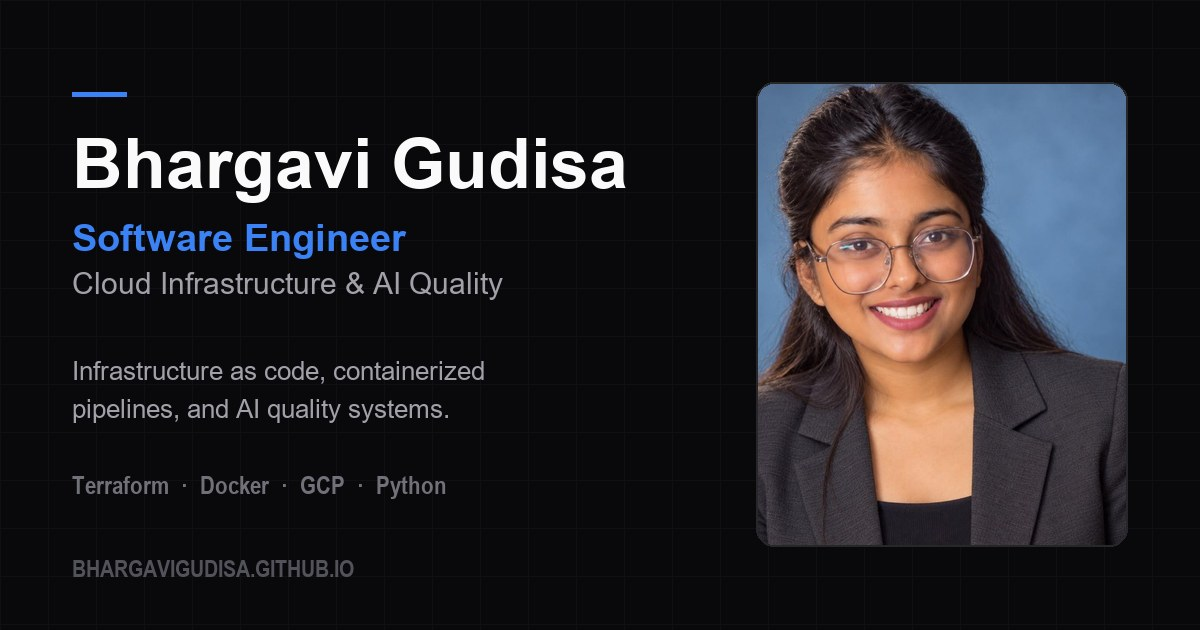
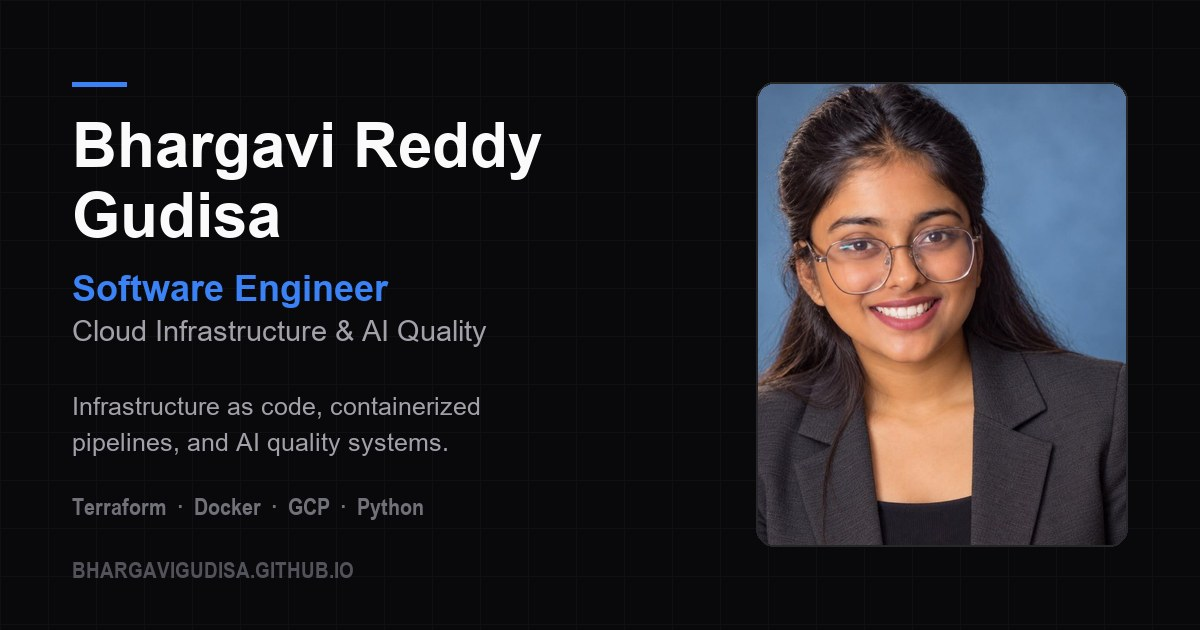
Site: full name, two more projects, and sync the résumé source
- Name is "Bhargavi Reddy Gudisa" throughout — hero, title, OG tags, JSON-LD
  — and the OG card is regenerated to match.
- Adds project cards 08 and 09 for telco-customer-churn-analysis and
  sales-revenue-performance. Both repos existed and were linked from nowhere,
  so the portfolio showed none of that work.
- Résumé source: drops the B.Tech entry and sets location back to USA, per
  Bhargavi. The FAU entries keep "Boca Raton, FL" since that is the campus,
  not a personal location.

The shipped PDF already matches on education and location; it still carries
the short name, so it needs one recompile to agree with everything else.

diff --git a/index.html b/index.html
@@ -3,12 +3,12 @@
 <head>
 <meta charset="UTF-8">
 <meta name="viewport" content="width=device-width,initial-scale=1.0,viewport-fit=cover">
-<meta name="description" content="Bhargavi Gudisa — Software Engineer building cloud infrastructure with Terraform, Docker and GCP, plus AI quality evaluation systems. 5 years across the US and India.">
-<meta name="author" content="Bhargavi Gudisa">
+<meta name="description" content="Bhargavi Reddy Gudisa — Software Engineer building cloud infrastructure with Terraform, Docker and GCP, plus AI quality evaluation systems. 5 years across the US and India.">
+<meta name="author" content="Bhargavi Reddy Gudisa">
 <meta name="robots" content="index,follow">
 <meta name="theme-color" content="#FAFAFA" media="(prefers-color-scheme: light)">
 <meta name="theme-color" content="#09090B" media="(prefers-color-scheme: dark)">
-<title>Bhargavi Gudisa — Software Engineer, Cloud Infrastructure &amp; AI Quality</title>
+<title>Bhargavi Reddy Gudisa — Software Engineer, Cloud Infrastructure &amp; AI Quality</title>
 <link rel="canonical" href="https://bhargavigudisa.github.io/">
 
 <!-- Icons -->
@@ -17,18 +17,18 @@
 
 <!-- Link preview (LinkedIn, Slack, iMessage, email) -->
 <meta property="og:type" content="profile">
-<meta property="og:site_name" content="Bhargavi Gudisa">
-<meta property="og:title" content="Bhargavi Gudisa — Software Engineer, Cloud Infrastructure &amp; AI Quality">
+<meta property="og:site_name" content="Bhargavi Reddy Gudisa">
+<meta property="og:title" content="Bhargavi Reddy Gudisa — Software Engineer, Cloud Infrastructure &amp; AI Quality">
 <meta property="og:description" content="Infrastructure as code, containerized pipelines, and AI quality systems. Terraform, Docker, GCP and Python across 5 years in the US and India.">
 <meta property="og:url" content="https://bhargavigudisa.github.io/">
 <meta property="og:image" content="https://bhargavigudisa.github.io/og-image.jpg">
 <meta property="og:image:width" content="1200">
 <meta property="og:image:height" content="630">
-<meta property="og:image:alt" content="Bhargavi Gudisa — Software Engineer, Cloud Infrastructure and AI Quality">
+<meta property="og:image:alt" content="Bhargavi Reddy Gudisa — Software Engineer, Cloud Infrastructure and AI Quality">
 <meta property="profile:first_name" content="Bhargavi">
 <meta property="profile:last_name" content="Gudisa">
 <meta name="twitter:card" content="summary_large_image">
-<meta name="twitter:title" content="Bhargavi Gudisa — Software Engineer, Cloud Infrastructure &amp; AI Quality">
+<meta name="twitter:title" content="Bhargavi Reddy Gudisa — Software Engineer, Cloud Infrastructure &amp; AI Quality">
 <meta name="twitter:description" content="Infrastructure as code, containerized pipelines, and AI quality systems. Terraform, Docker, GCP and Python.">
 <meta name="twitter:image" content="https://bhargavigudisa.github.io/og-image.jpg">
 
@@ -740,7 +740,9 @@ document.documentElement.classList.add('js');
 {
   "@context": "https://schema.org",
   "@type": "Person",
-  "name": "Bhargavi Gudisa",
+  "name": "Bhargavi Reddy Gudisa",
+  "givenName": "Bhargavi",
+  "familyName": "Gudisa",
   "url": "https://bhargavigudisa.github.io/",
   "image": "https://bhargavigudisa.github.io/og-image.jpg",
   "jobTitle": "Software Engineer",
@@ -805,7 +807,7 @@ document.documentElement.classList.add('js');
 <section id="hero"><div class="c"><div class="hero-g">
   <div>
     <div class="hero-status"><span class="dot"></span>Open to Software &amp; Cloud Engineering roles</div>
-    <h1 class="hero-name" id="hero-name">Bhargavi<br>Gudisa</h1>
+    <h1 class="hero-name" id="hero-name">Bhargavi Reddy<br>Gudisa</h1>
     <div class="hero-role"><span>Software Engineer — Cloud Infrastructure &amp; AI Quality</span></div>
     <p class="hero-desc">
       Building <strong>scalable cloud infrastructure</strong> and AI quality systems. 5 years working across GCP, Azure, and hybrid environments with Terraform, Docker, and Python.
@@ -826,7 +828,7 @@ document.documentElement.classList.add('js');
         <source type="image/webp"
                 srcset="./profile-sm.webp 340w, ./profile.webp 680w"
                 sizes="(max-width: 860px) 60vw, 340px">
-        <img src="./profile.jpg" alt="Bhargavi Gudisa" width="680" height="850"
+        <img src="./profile.jpg" alt="Bhargavi Reddy Gudisa" width="680" height="850"
              loading="eager" fetchpriority="high" decoding="async">
       </picture>
     </div>
@@ -1533,6 +1535,90 @@ ASPECTS = {
         </div>
       </div>
     </div>
+
+    <div class="proj-item reveal">
+      <div class="proj-num">08/</div>
+      <div class="proj-body">
+        <div class="proj-top">
+          <h3 class="proj-title">Telco Customer Churn Analysis</h3>
+          <div class="proj-client">Personal &middot; Public Dataset</div>
+        </div>
+        <p class="proj-desc">7,000+ telecom customer records cleaned and segmented to answer the three questions a retention team actually asks: how much recurring revenue is at risk, which segments leave, and which interventions would pay for themselves.</p>
+        <div class="proj-tags">
+          <span class="tag">Python</span><span class="tag">pandas</span>
+          <span class="tag">SQL</span><span class="tag">Jupyter</span>
+        </div>
+        <div class="proj-links">
+          <a class="proj-link" href="https://github.com/BhargaviGudisa/telco-customer-churn-analysis" target="_blank" rel="noopener">Source &#8599;</a>
+        </div>
+        <button class="proj-toggle" aria-expanded="false" aria-controls="cs8">
+          <span class="pt-label">Read case study</span><span class="pt-ico">+</span>
+        </button>
+        <div class="proj-panel" id="cs8" hidden>
+          <div class="cs">
+            <div class="cs-block">
+              <div class="cs-h">Problem</div>
+              <p class="cs-p">A churn rate is a number, not a decision. Knowing that 26% of customers leave tells a retention team nothing about <strong>who</strong> to call first, and acquiring a replacement customer costs far more than keeping the one you have. The question worth answering is not how much churn there is but which segments it concentrates in.</p>
+            </div>
+            <div class="cs-block">
+              <div class="cs-h">Approach</div>
+              <ul class="cs-ul">
+                <li>Cleaned and validated the raw dataset first &mdash; 7,043 rows down to 7,032 after resolving blank charge fields that would otherwise have been silently coerced to zero.</li>
+                <li>Segmented churn by <strong>contract type, tenure, service mix and support level</strong> rather than reporting one aggregate, because the aggregate hides the only actionable finding.</li>
+                <li>Quantified revenue at risk per segment, so the recommendations are ranked by money rather than by churn percentage.</li>
+                <li>Specified a dashboard layout for ongoing monitoring, so the analysis does not expire the moment the notebook is closed.</li>
+              </ul>
+            </div>
+            <div class="cs-block">
+              <div class="cs-h">Outcome</div>
+              <p class="cs-p">Churn concentrates sharply in month-to-month contracts and short-tenure customers, which turns a vague retention budget into a specific target list. The repository carries the cleaning steps, the SQL and Python analysis, and the dashboard specification, so the method is reusable rather than a one-off notebook.</p>
+            </div>
+          </div>
+        </div>
+      </div>
+    </div>
+
+    <div class="proj-item reveal">
+      <div class="proj-num">09/</div>
+      <div class="proj-body">
+        <div class="proj-top">
+          <h3 class="proj-title">Sales &amp; Revenue Performance</h3>
+          <div class="proj-client">Personal &middot; Retail Dataset</div>
+        </div>
+        <p class="proj-desc">Multi-year retail transaction data cleaned, modelled and analysed into KPIs, profitability drivers and regional performance &mdash; the full path from raw transactional rows to a dashboard a manager would actually open.</p>
+        <div class="proj-tags">
+          <span class="tag">Python</span><span class="tag">pandas</span>
+          <span class="tag">SQL</span><span class="tag">Power BI</span>
+        </div>
+        <div class="proj-links">
+          <a class="proj-link" href="https://github.com/BhargaviGudisa/sales-revenue-performance" target="_blank" rel="noopener">Source &#8599;</a>
+        </div>
+        <button class="proj-toggle" aria-expanded="false" aria-controls="cs9">
+          <span class="pt-label">Read case study</span><span class="pt-ico">+</span>
+        </button>
+        <div class="proj-panel" id="cs9" hidden>
+          <div class="cs">
+            <div class="cs-block">
+              <div class="cs-h">Problem</div>
+              <p class="cs-p">Retail organisations generate transactional data continuously and convert very little of it into decisions. The data arrives at the grain of a line item; the questions arrive at the grain of a quarter, a region or a product line. Closing that gap is modelling work, not reporting work.</p>
+            </div>
+            <div class="cs-block">
+              <div class="cs-h">Approach</div>
+              <ul class="cs-ul">
+                <li>Loaded and cleaned the raw transaction data, then <strong>modelled it before analysing it</strong> &mdash; dimensions for product, region and time rather than repeated strings on every row.</li>
+                <li>Wrote the analysis in both SQL and pandas, so the same figures are reproducible from the warehouse or the notebook and disagreements surface immediately.</li>
+                <li>Tracked profitability alongside revenue, because the top-selling product and the most profitable product are frequently not the same one.</li>
+                <li>Presented the result as KPIs and dashboard visuals rather than a notebook, since the audience is a manager rather than an analyst.</li>
+              </ul>
+            </div>
+            <div class="cs-block">
+              <div class="cs-h">Outcome</div>
+              <p class="cs-p">Month-over-month revenue movement, regional performance and the top product and customer cohorts are visible in one view, with the modelling and the queries published so the numbers can be checked rather than taken on trust.</p>
+            </div>
+          </div>
+        </div>
+      </div>
+    </div>
   </div>
 </div></section>
 
@@ -1642,7 +1728,7 @@ ASPECTS = {
 
 <!-- FOOTER -->
 <footer><div class="c"><div class="ft">
-  <div class="ft-c">© 2026 Bhargavi Gudisa</div>
+  <div class="ft-c">© 2026 Bhargavi Reddy Gudisa</div>
   <div class="ft-links">
     <a href="https://github.com/BhargaviGudisa" target="_blank" rel="noopener">GitHub</a>
     <a href="https://www.linkedin.com/in/bhargavi-gudisa-a2b05021b/" target="_blank" rel="noopener">LinkedIn</a>

diff --git a/resume/Bhargavi-Gudisa-Resume.tex b/resume/Bhargavi-Gudisa-Resume.tex
@@ -81,10 +81,7 @@
 \newcommand{\myphone}{\href{tel:+15619870286}{(561) 987-0286}}
 \newcommand{\myemail}{\href{mailto:bhargavi4044g@gmail.com}{bhargavi4044g@gmail.com}}
 
-% TODO: a city and state beats "United States". Recruiters and ATS both filter
-% on location, and "United States" reads as hiding something. Your 561 area code
-% and FAU both point to South Florida — confirm and set it.
-\newcommand{\mylocation}{Boca Raton, FL}
+\newcommand{\mylocation}{USA}
 
 % Short labels rather than printed URLs. One tradeoff to know about: an ATS that
 % discards hyperlink targets keeps only the word "GitHub", where a printed URL
@@ -286,17 +283,6 @@ Computer and Information Sciences, Florida Atlantic University (GPA 3.86).
 Relevant coursework: Cloud Computing, Database Systems, Big Data Analytics,
 Machine Learning, Data Mining, Data Visualization.
 \vspace{4pt}
-
-% Note, so this is not "corrected" later by mistake: the B.Tech (2018-2022) and
-% the Wipro role (Jan 2021 - Oct 2023) overlap by 18 months. That is deliberate
-% and confirmed, not a typo. Be ready to explain it in a screening call — an
-% interviewer who notices will ask, and "I started at Wipro before I finished
-% the degree" is a perfectly good answer given once, unprompted.
-%
-% GPA is written as "8.0/10" on purpose. A US reader who sees a bare "8.0" next
-% to a 4.0-scale master's GPA has no way to interpret it.
-\entry{B.Tech, Computer Science and Engineering \textemdash{} CGPA 8.0/10}{2018 \textendash{} 2022}
-      {Vignan's Nirula Institute of Technology and Science for Women}{Guntur, India}
 
 %--- CERTIFICATIONS -----------------------------------------------------------
 \section{Certifications \& Publications}
